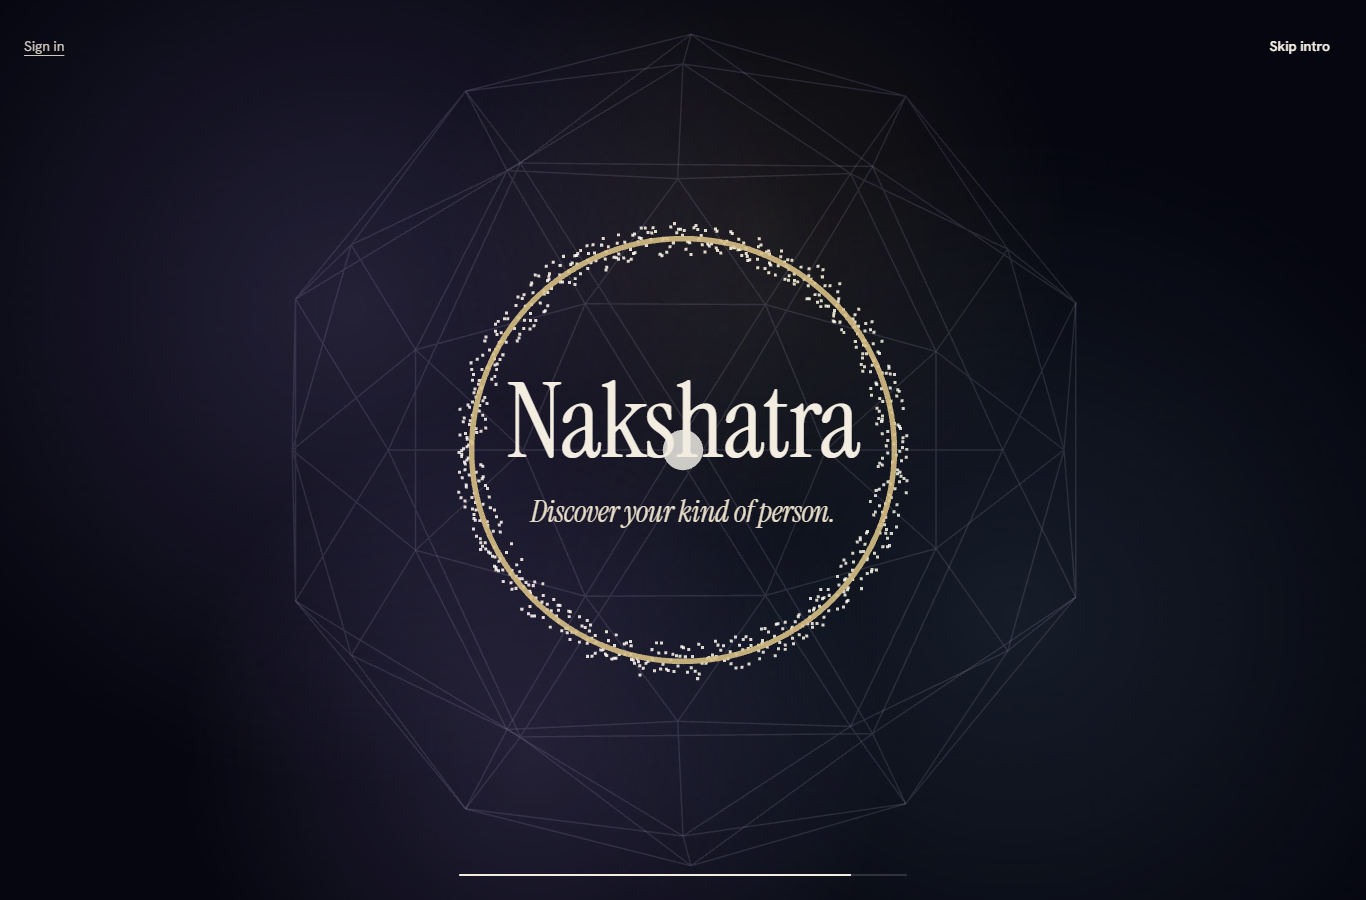
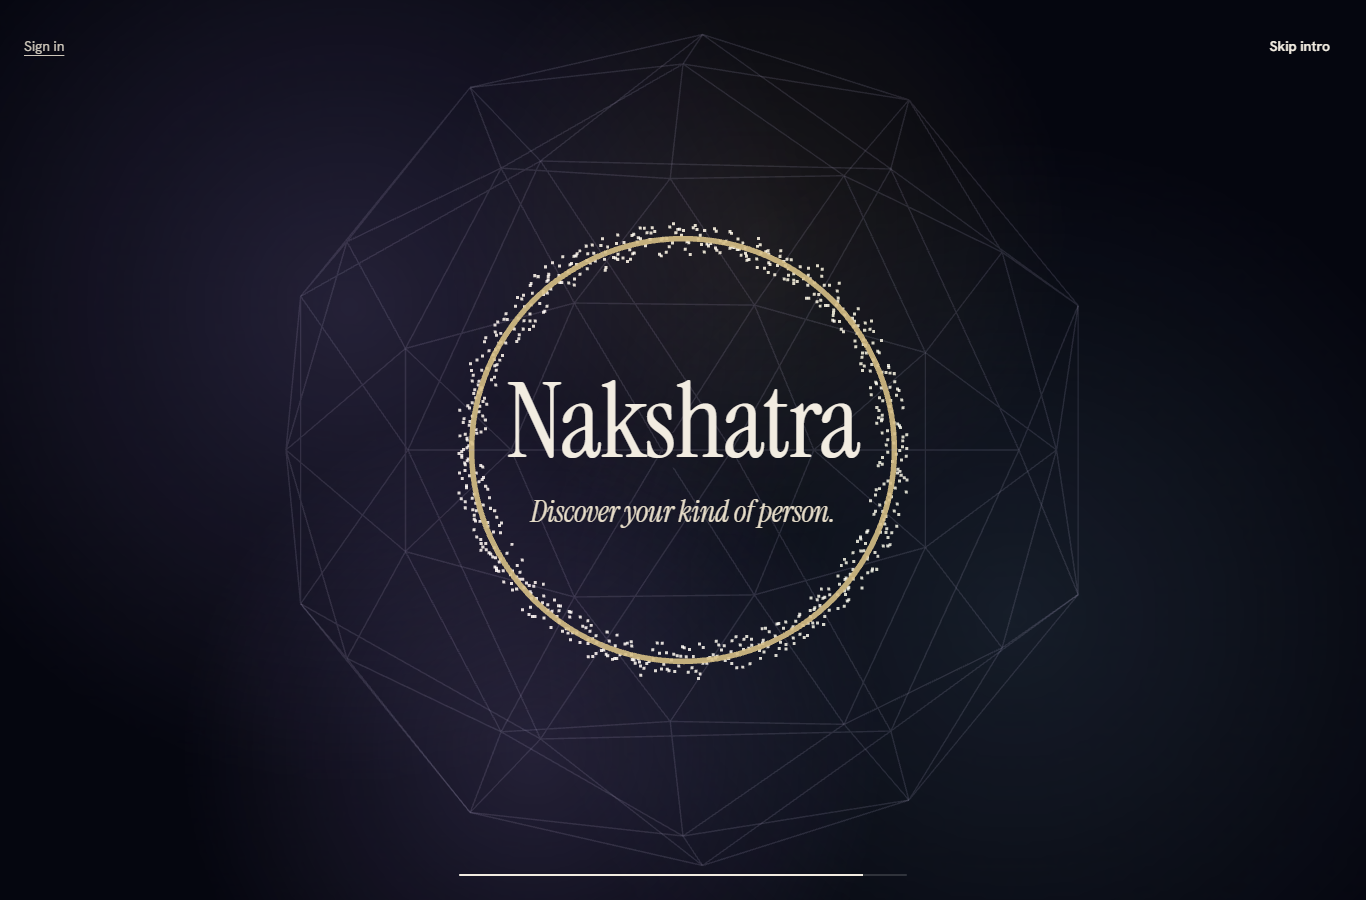
Intro: fade the central light before the wordmark appears

diff --git a/src/web/three/intro.tsx b/src/web/three/intro.tsx
@@ -60,7 +60,7 @@ function Cloud({ startedAt, still }: { startedAt: number; still: boolean }) {
     pos.needsUpdate = true;
     built.mat.opacity = 0.9 * wake;
     // The single light: there from the start, swallowed by the portal, back as its heart.
-    built.core.opacity = Math.min(1, phase(t, 0.2, 1.6)) * (1 - form * 0.7) + gather * 0.6;
+    built.core.opacity = (Math.min(1, phase(t, 0.2, 1.6)) * (1 - form * 0.7) + gather * 0.6) * (1 - phase(t, 10.6, 11.4));
     built.gate.opacity = gather * 0.9;
     built.frame.opacity = widen * 0.35 * (1 - gather * 0.6);
     if (group.current) group.current.rotation.z = gather * 0.4 + settle * 0.15 + (still ? 0 : t * 0.01);
